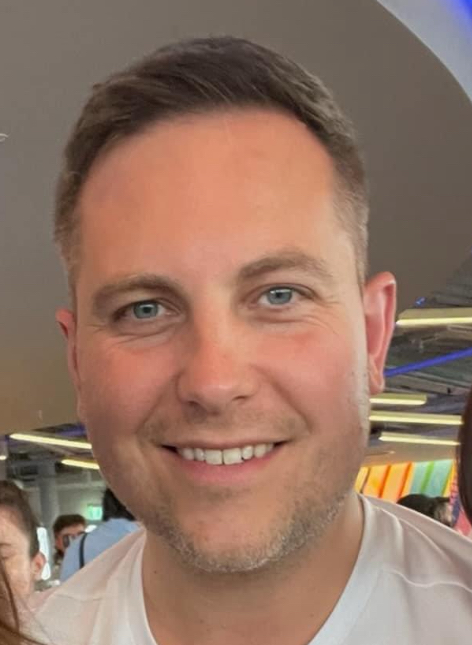
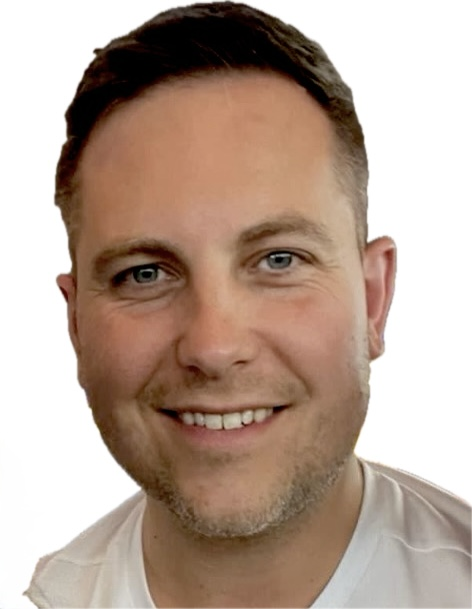
Altering images

diff --git a/style.css b/style.css
@@ -182,11 +182,31 @@ section {
   line-height: 1.8;
 }
 
-.home-image img {
-  width: 26vw;
+.home-image .image-box {
+  width: 32vw;
+  height: 32vw;
   border-radius: 50%;
   box-shadow: 0 0 25px var(--main-color);
   transition: 0.4s ease-in-out;
+}
+
+.home-image .image-box .image-item {
+  position: relative;
+  width: 100%;
+  height: 100%;
+  background: var(--bg-color);
+  border-radius: 50%;
+  display: flex;
+  justify-content: center;
+  overflow: hidden;
+}
+
+.home-image .image-box .image-item img {
+  position: absolute;
+  display: block;
+  width: 85%;
+  object-fit: cover;
+  top: 0.5rem;
 }
 
 .home-image img:hover {

diff --git a/index.html b/index.html
@@ -65,7 +65,11 @@
       </div>
 
       <div class="home-image">
-        <img src="images/profile-pic.jpg" alt="profile-pic" />
+        <div class="image-box">
+          <div class="image-item">
+            <img src="images/profile-pic.jpg" alt="profile-pic" />
+          </div>
+        </div>
       </div>
     </section>
 
